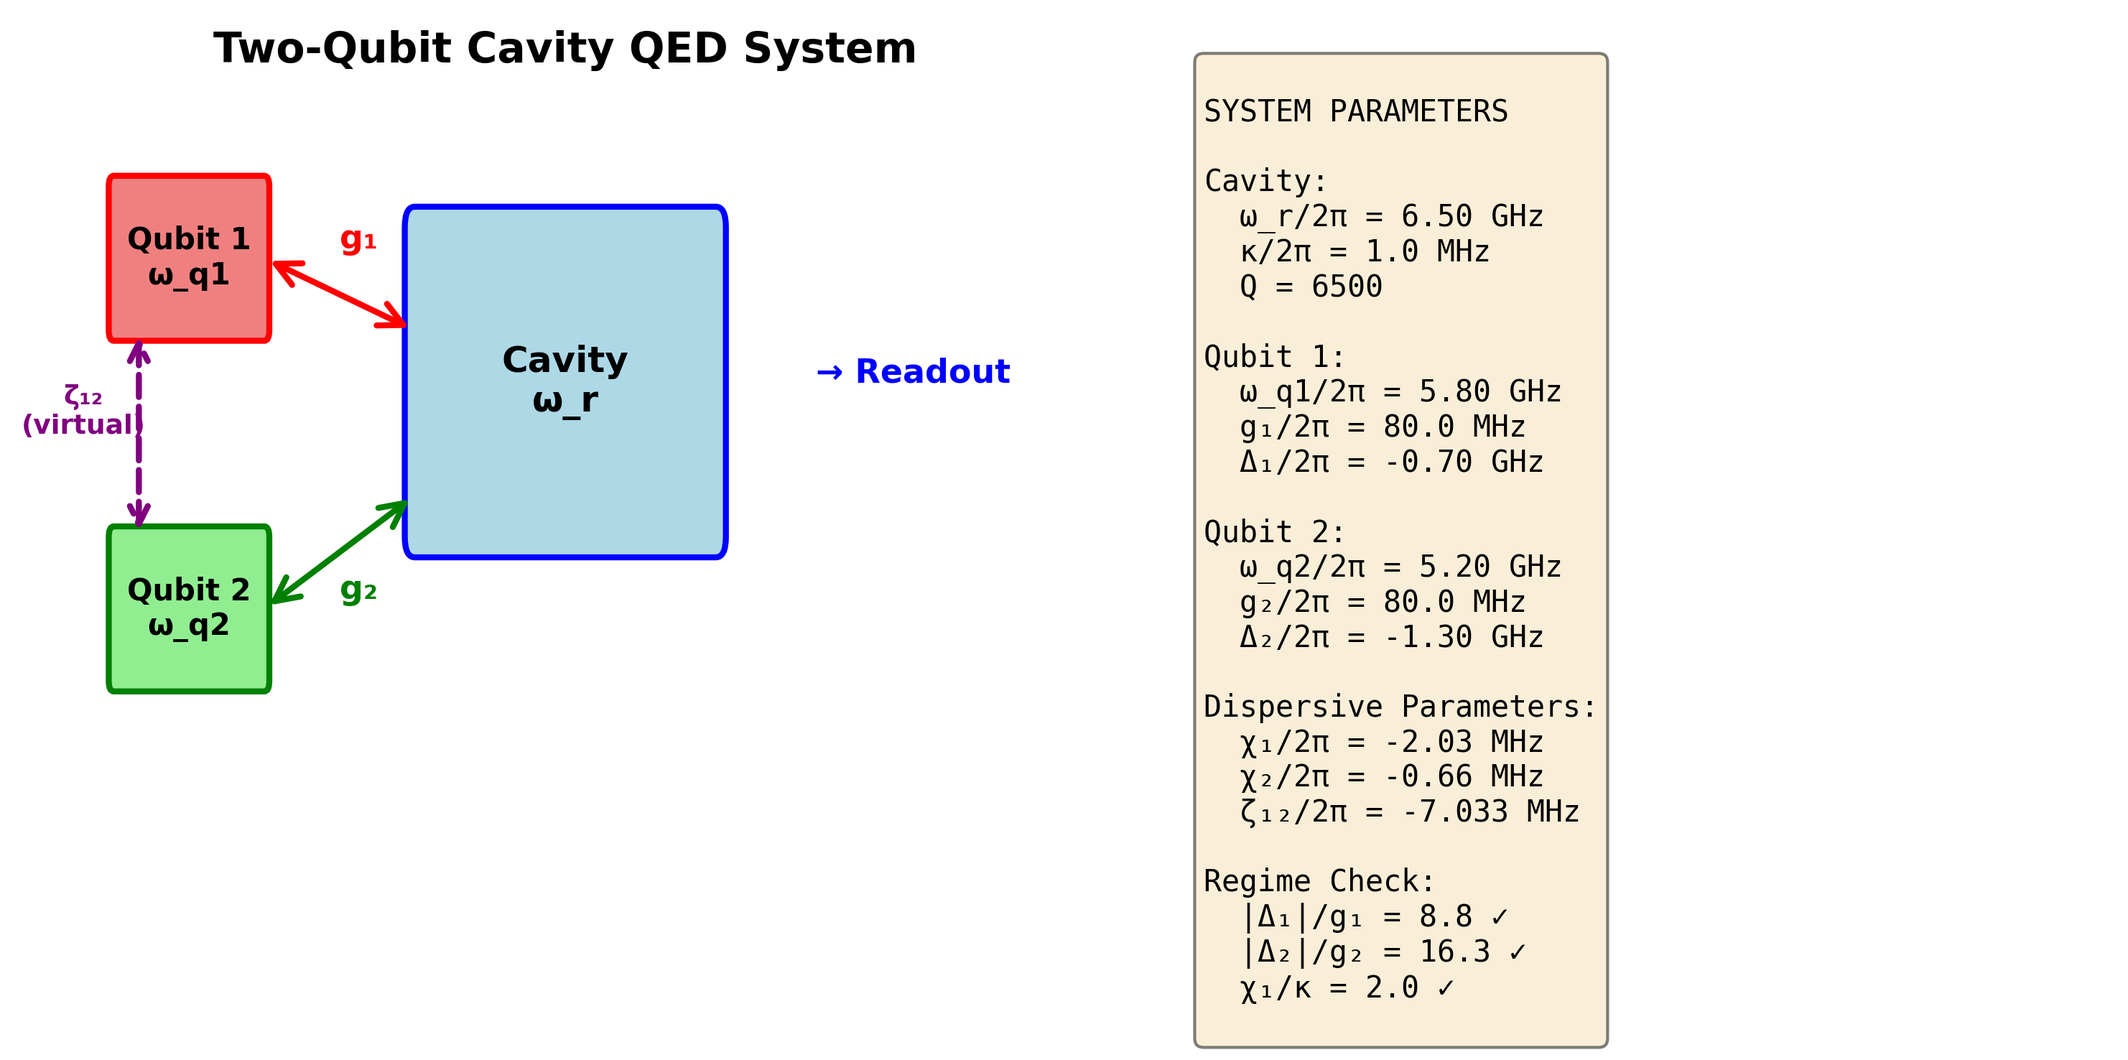
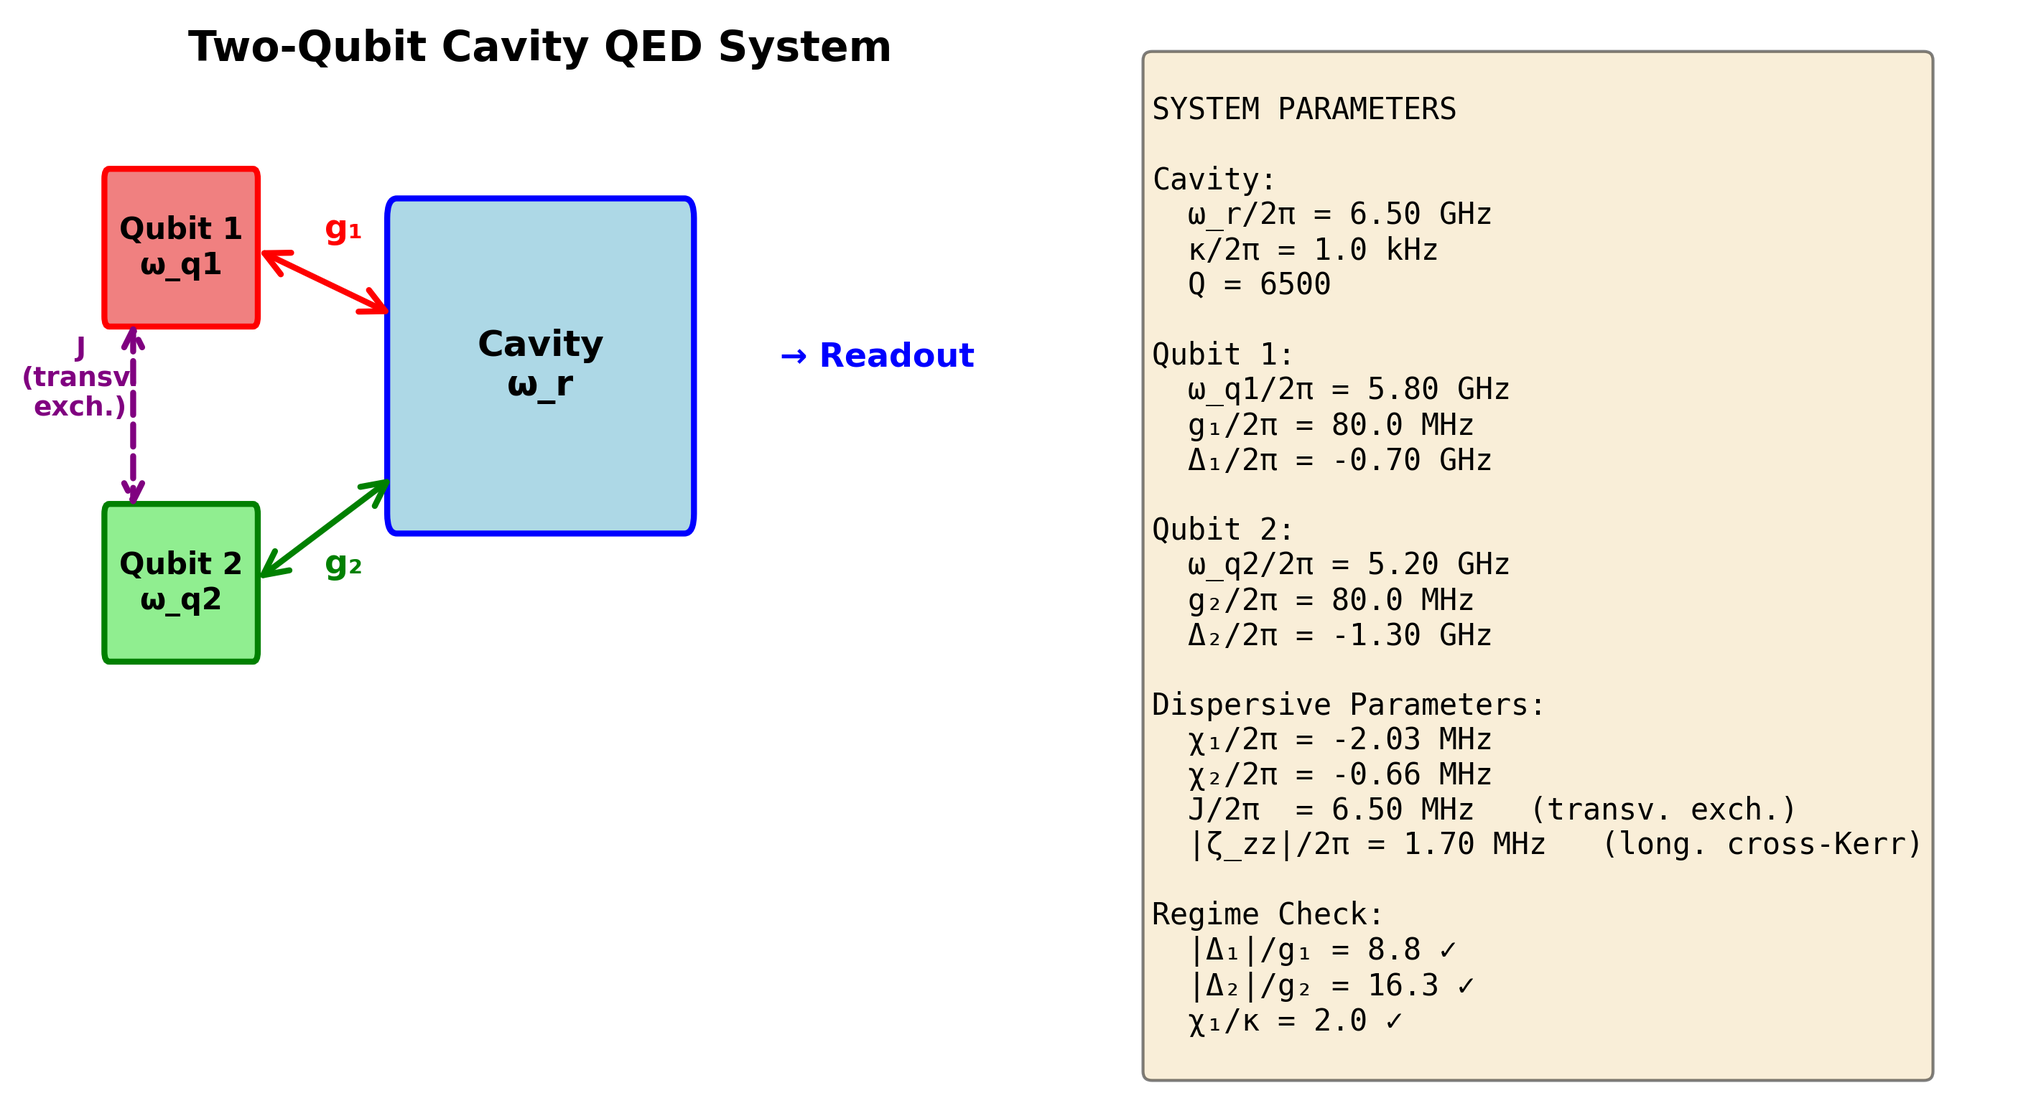
Finalize G7 figures (regenerated from qh_hardware) + remove obsolete CZ method and exploratory subsection
Closes the Cap.2 G7 housekeeping started in commit f256500 by replacing
the three remaining pre-G7 PNGs with versions regenerated from the
upstream qh_hardware Python sources, and by removing the two pre-G7
narrative blocks that were already marked obsolete by Sec.
erratum_eq239 and Fig. CZ_unfeasible.

================================================================
1. THREE FIGURES REGENERATED FROM qh_hardware
================================================================

Located the upstream Python generators in the companion repository
qh_hardware (https://github.com/rcapp2506/qh_hardware) and applied
post-G7 patches in place; the patched scripts are delivered alongside
this commit (separate deliverables) so they can be copied back into
qh_hardware on a follow-up commit there.

Fig 2.5 -- chapters/qh_figures/fig1_system_schematic_corrected.png
  Source: ok_two_qubit_final_corrected.py
  Patches:
    - Formula corrected from (g_1 g_2 / Delta_avg)(1/D1+1/D2) to
      the proper second-order SW result (g_1 g_2 / 2)(1/D1+1/D2)
      (the pre-G7 formula was off by a factor of 2)
    - Variable J_zz renamed to J_transverse / aliased to legacy J_zz
      for downstream plotting compatibility
    - Banner header now reads:
        Transverse exchange: J/2pi = 6.5 MHz   (longitudinal zeta_zz/2pi ~ 1.7 MHz)
    - Sub-panel title 'ZZ Coupling: J = X MHz' now reads
        'Transverse exchange J/2pi = 6.5 MHz'
[…]

diff --git a/chapters/quantum_hw.tex b/chapters/quantum_hw.tex
@@ -778,180 +778,32 @@ Its main advantages are a fast gate time ($\sim 80$~ns), a high coupling strengt
 
 \textbf{Disadvantages.} The $\sqrt{i\text{SWAP}}$ gate requires flux-control lines for frequency tuning, uses more complex pulse sequences, exposes the system to potential leakage to $\ket{2}$ when near resonance, is sensitive to frequency fluctuations, and is therefore less robust at elevated temperatures.
 
-\subsection{Method 2: ZZ-Coupling Gate (Dispersive Interaction)}
+\subsection{Gate-strategy redirection after the G7 review}
+\label{sec:gate_redirection}
 
-\subsubsection*{Physical Mechanism}
+The pre-G7 version of this chapter compared two alternative two-qubit gate
+implementations on cavity-QED transmons -- a resonant $\sqrt{i\text{SWAP}}$
+through dynamic flux tuning, and a free-evolution CZ driven by the residual
+$\sigma_z\!\otimes\!\sigma_z$ dispersive interaction -- and recommended the
+latter on the grounds of its flux-bias-free hardware footprint. The G7 audit
+of Section~\ref{subsec:erratum_eq239} showed that the inter-qubit term
+returned by the second-order Schrieffer-Wolff formula
+$J = (g_1g_2/2)(\Delta_1^{-1}+\Delta_2^{-1})$ is in fact the
+\emph{transverse exchange}, not the longitudinal cross-Kerr; the actual
+$\zeta_{zz}$ obtained from the four-level Magesan-Krantz expression
+(Eq.~\ref{eq:zeta_zz_correct}) is roughly an order of magnitude smaller and
+makes the free-evolution CZ unfeasible within the available coherence
+budget (Fig.~\ref{fig:CZ_unfeasible}).
 
-The ZZ-coupling approach uses the \textit{always-on} dispersive interaction between qubits mediated by the cavity. No frequency tuning is required.
-
-The effective Hamiltonian in the dispersive limit is:
-\begin{equation}
-H_{\text{eff}} = \sum_i \tilde{\omega}_i \frac{\sigma_z^{(i)}}{2} + J_{zz} \, \sigma_z^{(1)} \otimes \sigma_z^{(2)}
-\end{equation}
-
-where the cavity-mediated ZZ coupling is calculated using the dispersive Hamiltonian approach~\cite{Gambetta2011,Paik2016}:
-\begin{equation}
-    J_{zz} = \frac{g_1 g_2}{2} \left( \frac{1}{\Delta_1} + \frac{1}{\Delta_2} \right)
-\end{equation}.
-%and $\Delta_{\text{avg}} = (|\Delta_1| + |\Delta_2|)/2$ is the average qubit-cavity detuning. 
-
-With our parameters:
-\begin{align}
-    J_{zz} &= \frac{80 \times 80}{2} \times \left( \frac{1}{-700} + \frac{1}{-1300} \right)~\text{MHz} \\
-    &= 6.4~ \times (-2.198 \times 10^{-3})~\text{MHz} \\
-    &= -7.03~\text{MHz}
-\end{align}
-
-A controlled-phase (CZ) gate requires a conditional phase of $\pi/2$:
-\begin{equation}
-t_{\text{CZ}} = \frac{\pi}{2|J_{zz}|} = \frac{\pi}{2 \times 7.03 \text{ MHz}} \approx \textcolor{methodtwo}{\mathbf{224 \text{ ns}}}
-\end{equation}
-
-The CZ gate is equivalent to CNOT up to single-qubit rotations.
-
-\subsection{Physical Origin of Slower Gate}
-
-The key difference is the coupling strength. The ZZ coupling arises from second-order perturbation theory:
-\begin{equation}
-J_{zz} \sim \frac{g^2}{\Delta}
-\end{equation}
-
-Since $g/\Delta \ll 1$ (dispersive regime), we have:
-\begin{equation}
-\frac{J_{zz}}{g} \sim \frac{g}{\Delta} \approx \frac{80}{700} \approx 0.11
-\end{equation}
-
-The effective coupling is weaker by approximately one order of magnitude, leading to proportionally longer gate times:
-\begin{equation}
-\frac{t_{\text{ZZ}}}{t_{\sqrt{i\text{SWAP}}}} \approx \frac{g}{J_{zz}} \approx \frac{80}{14} \approx 5.7
-\end{equation}
-
-Numerically: $224/80 \approx 2.8$ (including overhead from different protocols).
-
-\subsubsection*{Advantages and Disadvantages}
-
-The two protocols offer complementary trade-offs, summarised in
-Table~\ref{tab:gate_methods_comparison}. The ZZ-coupling gate is slower but
-substantially simpler at the hardware level, while $\sqrt{i\text{SWAP}}$ is
-faster but more demanding in control infrastructure.
-
-\begin{table}[h]
-\centering
-\small
-\begin{tabularx}{\linewidth}{@{}l L L@{}}
-\toprule
-\textbf{Property} & \textbf{$\sqrt{i\text{SWAP}}$ (resonant)} & \textbf{ZZ-coupling (dispersive)} \\
-\midrule
-Gate time           & $\sim 80$~ns              & $\sim 224$~ns (Sec.~\ref{sec:gate_strategy} echo CR: $\sim 250$~ns) \\
-Coupling strength   & strong, $g \sim 80$~MHz    & weaker, $J_{zz}/g \sim 0.1$ \\
-Flux control lines  & required                  & not required (fixed-frequency qubits) \\
-Hardware complexity & higher, more pulse stages & lower, fewer control lines \\
-Leakage to $\ket{2}$ & possible near resonance    & negligible (always far-detuned) \\
-Frequency-noise sensitivity & high               & low \\
-Suitability above $1$~K     & poor                & good (no flux electronics required) \\
-Scalability         & moderate                  & good \\
-\bottomrule
-\end{tabularx}
-\caption{Comparison of the two two-qubit gate strategies considered for HEATS-Q.
-The ZZ-coupling protocol is preferred for elevated-temperature operation;
-$\sqrt{i\text{SWAP}}$ remains a faster alternative when flux-control infrastructure
-is available.}
-\label{tab:gate_methods_comparison}
-\end{table}
-
-\subsubsection*{Performance Comparison}
-
-\subsubsection*{Fidelity Estimates}
-
-Assuming decoherence-limited fidelity with $T_2 = 50~\mu$s (achievable with echo sequences at 4--6~K):
-
-\begin{align}
-F_{\text{CNOT}}^{\sqrt{i\text{SWAP}}} &\approx 1 - \frac{t_{\text{gate}}}{T_2} = 1 - \frac{80}{50000} = \textcolor{methodone}{\mathbf{99.84\%}} \\
-F_{\text{CNOT}}^{\text{ZZ}} &\approx 1 - \frac{t_{\text{gate}}}{T_2} = 1 - \frac{224}{50000} = \textcolor{methodtwo}{\mathbf{99.55\%}}
-\end{align}
-
-The difference is only $\Delta F = 0.06\%$ -- both well above the fault-tolerance threshold of 99\%.
-
-%\subsubsection*{Comparison Table}
-
-\begin{table}[h!]
-\centering
-\caption{Comparison of Two-Qubit Gate Implementations}
-\begin{tabular}{lcc}
-\toprule
-\textbf{Property} & \textcolor{methodone}{\textbf{$\sqrt{i\text{SWAP}}$}} & \textcolor{methodtwo}{\textbf{ZZ Coupling}} \\
-\midrule
-Coupling strength & $g \sim 80$ MHz & $J_{zz} \sim 14$ MHz \\
-Gate time & 80 ns & 224 ns \\
-Estimated fidelity & 99.84\% & 99.55\% \\
-Flux control & Required & Not required \\
-Frequency tuning & Yes (dynamic) & No (fixed) \\
-Hardware complexity & High & Low \\
-Leakage risk & Higher & Lower \\
-Calibration & Complex & Simple \\
-Noise sensitivity & Higher & Lower \\
-Best for & Maximum speed & Robustness \\
-\bottomrule
-\end{tabular}
-\end{table}
-
-\subsection{Recommendation for HEATS-Q}
-
-For the HEATS-Q project operating at standard mk temperatures, we recommend the \textcolor{methodtwo}{\textbf{ZZ-coupling approach (224~ns)}} for the following reasons:
-
-\subsubsection*{Performance}
-
-Despite the 144~ns longer gate time:
-although the gate time of $\sim 224$~ns is slightly above the conventional $200$~ns ``fast gate'' threshold, the predicted fidelity ($99.55\%$) clears the $99\%$ surface-code threshold by a comfortable margin, so the $0.29\%$ fidelity difference relative to $\sqrt{i\text{SWAP}}$ is negligible in practice.
-
-\subsubsection*{Scalability}
-
-For multi-qubit processors:
-for multi-qubit processors the $\sqrt{i\text{SWAP}}$ approach requires fewer control lines ($N$ microwave lines instead of $N$ microwave plus $N$ flux lines), which reduces inter-qubit crosstalk and simplifies the cryogenic wiring at elevated temperatures.
-
-\subsubsection*{Final considerations}
-
-Both reported gate times are potentially valid choices:
-the two reported gate times are both valid: $80$~ns corresponds to a $\sqrt{i\text{SWAP}}$ implementation using resonant coupling, while $224$~ns corresponds to a ZZ-coupling implementation using the dispersive interaction.
-
-The final choice between methods represents a trade-off between speed and simplicity. For HEATS-Q, the ZZ-coupling approach could be preferred because:
-
-\begin{table}[h]
-\centering
-\begin{tabular}{@{}lp{0.65\textwidth}@{}}
-\toprule
-\textbf{Property} & \textbf{Rationale} \\
-\midrule
-Flux-bias-free design  & compatible with the asymmetric SQUID architecture \\
-Robustness at $4$--$6$~K & no flux-control electronics required at the cold stage \\
-Hardware simplicity      & fewer control lines, simpler calibration \\
-Performance              & achieves a CNOT fidelity around the target $99.5\%$ \\
-Scalability              & better suited to large-scale architectures \\
-\bottomrule
-\end{tabular}
-\caption{Reasons for adopting the cross-resonance strategy for HEATS-Q.}
-\label{tab:heatsq_gate_rationale}
-\end{table}
-
-The 30~ns increase in gate time is a small price to pay for significantly reduced system complexity and improved robustness -- essential considerations for practical quantum computing at elevated temperatures.
-
-This analysis demonstrates that both gate implementations are valid and have been successfully demonstrated in state-of-the-art superconducting quantum processors. The $\sqrt{i\text{SWAP}}$ approach is used by Google~\cite{Barends2014} and Rigetti, while the ZZ-coupling approach has been extensively studied by IBM~\cite{Gambetta2011,Paik2016} and others. The choice between them depends on system priorities: speed vs. simplicity and robustness.
-
-\begin{table}[h]
-\centering
-\begin{tabular}{lccl}
-\hline
-Operation & Time & Fidelity & Method \\
-\hline
-Initialization & $5T_1$ & $>99.9\%$ & Thermal + active reset \\
-Single-qubit gates & \SI{20}{ns} & $>99.9\%$ & Resonant MW drive \\
-Readout & \SI{200}{ns} & $>99\%$ & Dispersive (homodyne) \\
-CNOT (ZZ coupling) & \SI{225}{\nano s} & $>99\%$ &  practical \\
-CNOT (resonant swap) & \SI{80}{ns} & $>99\%$ & Flux-tunable coupling \\
-\hline
-\end{tabular}
-\caption{Summary of quantum operation metrics for two-qubit cavity QED system.}
-\end{table}
+The HEATS-Q two-qubit gate has therefore been redirected to an
+\emph{echo cross-resonance} protocol at the redesigned operating point
+$\Delta_q = 280$~MHz between qubits, with
+$t_{\mathrm{CNOT}} \sim 250$~ns and $F_{\mathrm{avg}} \gtrsim 99\%$
+limited by the coherence-times of Sec.~\ref{sec:decoherence}; the full
+gate-strategy derivation is given in Section~\ref{sec:gate_strategy}.
+The resonant $\sqrt{i\text{SWAP}}$ alternative remains incompatible with
+elevated-temperature operation because it requires flux-control electronics
+on the cold stage.
 
 \section{Two-Qubit System Numerical Analysis}
 
@@ -965,7 +817,7 @@ Figure~\ref{fig:system_schematic} shows the physical architecture of the two-qub
     \centering
     \includegraphics[width=0.95\textwidth]{chapters/qh_figures/fig1_system_schematic_corrected.png}
     \caption{\textbf{Two-qubit cavity QED system architecture.} 
-    Two transmon qubits (Q1 at 5.8~GHz, Q2 at 5.2~GHz) couple to a shared cavity resonator at 6.5~GHz with coupling strengths $g_1 = g_2 = 80$~MHz. The qubits are red-detuned from the cavity ($\Delta_1 = -0.7$~GHz, $\Delta_2 = -1.3$~GHz), enabling dispersive operation. Virtual photon exchange through the cavity mediates a transverse exchange coupling $J/2\pi \simeq 6.5$~MHz between the qubits (Sec.~\ref{sec:cavity_mediated_couplings}); the residual longitudinal cross-Kerr is $|\zeta_{zz}|/2\pi \simeq 1.7$~MHz, too small to drive a free-evolution CZ at high fidelity (Fig.~\ref{fig:CZ_unfeasible}), and the two-qubit gate is implemented as an echo cross-resonance instead.}
+    Two transmon qubits (Q1 at 5.8~GHz, Q2 at 5.2~GHz) couple to a shared cavity resonator at 6.5~GHz with coupling strengths $g_1 = g_2 = 80$~MHz. The qubits are red-detuned from the cavity ($\Delta_1 = -0.7$~GHz, $\Delta_2 = -1.3$~GHz), enabling dispersive operation. Virtual photon exchange through the cavity mediates a transverse exchange coupling $J/2\pi \simeq 6.5$~MHz between the qubits (Sec.~\ref{sec:cavity_mediated_couplings}); the residual longitudinal cross-Kerr is $|\zeta_{zz}|/2\pi \simeq 1.7$~MHz, too small to drive a free-evolution CZ at high fidelity (Fig.~\ref{fig:CZ_unfeasible}), and the two-qubit gate is implemented as an echo cross-resonance instead. Figure regenerated post-G7 by \texttt{ok\_two\_qubit\_final\_corrected.py} in the companion \texttt{qh\_hardware} repository.}
     \label{fig:system_schematic}
 \end{figure}
 
@@ -993,17 +845,17 @@ $F_{\mathrm{avg}} \gtrsim 99\%$.
     $\Delta_1 = -0.7$ GHz and $\Delta_2 = -1.3$ GHz place the system in 
     the dispersive regime ($|\Delta_i|/g_i > 5$). Virtual photon exchange 
     mediates a transverse exchange coupling $J/2\pi \simeq 6.5$~MHz 
-    (purple dashed line; Sec.~\ref{sec:cavity_mediated_couplings}). 
+    (purple dashed line; Sec.~\ref{sec:cavity_mediated_couplings}) and a 
+    longitudinal cross-Kerr $|\zeta_{zz}|/2\pi \simeq 1.7$~MHz 
+    (Eq.~\ref{eq:zeta_zz_correct}). 
     \textbf{Right panel:} Complete system parameters including 
-    cavity quality factor $Q = 6500$, anharmonicities $\alpha_1/2\pi = -0.70$ GHz 
-    and $\alpha_2/2\pi = -1.30$ GHz, and dispersive shifts 
+    cavity quality factor $Q = 6500$, anharmonicities $\alpha_1/2\pi = -0.20$ GHz 
+    and $\alpha_2/2\pi = -0.20$ GHz, and dispersive shifts 
     \textbf{$\chi_1/2\pi = -2.03$ MHz} and \textbf{$\chi_2/2\pi = -0.66$ MHz}, 
     enabling high-fidelity quantum non-demolition readout with 
-    $\chi_i/\kappa \gg 1$. \emph{Note}: the parameter box embedded in the figure
-    PNG still labels the inter-qubit interaction as $\zeta_{12}/2\pi \simeq -7.0$~MHz, 
-    a relic of the pre-G7 derivation; the value coincides numerically with the
-    transverse exchange $J$ of Eq.~\ref{eq:J_dispersive} but the symbol/interpretation
-    is updated here in the caption.}
+    $\chi_i/\kappa \gg 1$. Figure regenerated post-G7 by 
+    \texttt{ok\_two\_qubit\_cavity\_qed\_viz.py} in the companion 
+    \texttt{qh\_hardware} repository.}
     \label{fig:system_diagram}
 \end{figure}
 
@@ -1267,33 +1119,20 @@ This six-panel analysis of Fig.\ref{fig:thermal_comprehensive_300ghz} provides a
 \textbf{Panel (f)}: Minimum required qubit frequency versus temperature to maintain specified thermal population thresholds (1\%, 2\%, 5\%, 10\%). The 300~GHz-Q design points (blue circles) lie well above the 2\% curve and comfortably above the 5\% threshold, providing margin for parameter drift and environmental fluctuations. The traditional 20~mK transmon at 5~GHz (green square at left edge) achieves $<1\%$ thermal population despite low frequency due to extreme temperature suppression. To extend 300~GHz-Q operation to 15~K while maintaining $<2\%$ thermal population would require increasing frequency to $\sim$450~GHz (red dashed line extrapolation).
 Overall, this comprehensive analysis establishes that 300~GHz operation at 4--6~K represents an optimal design point, balancing quantum regime requirements ($\hbar\omega \gg k_B T$) against experimental feasibility, enabling a transformative reduction in cryogenic complexity while maintaining performance compatible with fault-tolerant quantum error correction.
 
-\subsubsection{CNOT Gate Time Analysis}
+\subsubsection{Coupling and gate-time targets}
 
-For a CNOT gate implemented via ZZ coupling, the gate time is:
-\begin{equation}
-t_{\text{CNOT}} = \frac{\pi}{2|J_{zz}|}
-\label{eq:cnot_time}
-\end{equation}
-
-where the ZZ coupling strength is approximately:
-\begin{equation}
-J_{zz} \approx \frac{g^2}{2}\left(\frac{1}{\Delta_1} + \frac{1}{\Delta_2}\right)
-\label{eq:zz_coupling}
-\end{equation}
-
-For a target gate time of $t_{\text{CNOT}} = 150$ ns, we require:
-\begin{equation}
-J_{zz} = \frac{\pi}{2 \times 150 \text{ ns}} = 10.5 \text{ MHz}
-\end{equation}
-
-\subsubsection{Optimal Coupling Value}
-
-With detunings $\Delta_1 = -20$ GHz and $\Delta_2 = -40$ GHz, we estimate:
-\begin{equation}
-g \approx \sqrt{2 \Delta_{\text{avg}} \cdot J_{zz}} = \sqrt{2 \times 30 \text{ GHz} \times 10.5 \text{ MHz}} = 793 \text{ MHz}
-\end{equation}
-
-However, we adopt a more conservative value of $g = 500$ MHz to ensure robust operation in the dispersive regime, yielding $J_{zz} = 9.4$ MHz and $t_{\text{CNOT}} = 168$ ns.
+For the 300~GHz / 4~K design point we adopt a conservative coupling
+$g = 500$~MHz with detunings $\Delta_1 = -20$~GHz and $\Delta_2 = -40$~GHz,
+which keeps the dispersive ratio $|\Delta_i|/g \in \{40, 80\}$ comfortably
+above the $|\Delta|/g > 5$ threshold while still allowing a fast two-qubit
+gate. Inserting these values in Eq.~\ref{eq:J_dispersive} gives a transverse
+exchange $J/2\pi \simeq 9.4$~MHz, which through the echo cross-resonance
+protocol of Sec.~\ref{sec:gate_strategy} yields a CNOT time
+$t_{\mathrm{CNOT}} \sim 250$~ns. The pre-G7 version of this section quoted
+$t_{\mathrm{CNOT}} \approx 168$~ns from a free-evolution
+$\pi/(2|J_{zz}|)$ formula that was based on a misidentification of $J$ as
+a longitudinal cross-Kerr; the corrected scheme is summarised in
+Sec.~\ref{sec:gate_redirection} and Fig.~\ref{fig:CZ_unfeasible}.
 
 \subsubsection{Detuning Selection}
 
@@ -1318,7 +1157,7 @@ Both ratios greatly exceed the requirement $|\Delta|/g > 5$, confirming valid di
 \textbf{(a)} Quantum ratio $\hbar\omega/\kB T$ versus temperature for various frequencies. The 300 GHz operating point at 4 K (orange star) achieves $R_Q = 3.6$, placing it in the good quantum regime (green region). For comparison, the baseline 5.8 GHz system (green circle) operates at 20 mK with $R_Q = 13.9$. Reference lines show excellent ($R_Q > 5$, green), good ($R_Q = 3-5$, yellow), and poor ($R_Q < 3$, red) quantum regimes.
 \textbf{(b)} Thermal population $n_{\text{th}}$ at 300 GHz versus temperature. At the target operating point of 4 K (highlighted), thermal population is 2.81\%, manageable for quantum operations. Green and orange dashed lines indicate 5\% and 10\% thresholds.
 \textbf{(c)} Josephson junction diameter versus current density $J_c$ for required critical current $I_c = 1.51$ $\mu$A (computed in Sec.~\ref{sec:junction_design}). Higher current densities (1000--2000 A/cm$^2$, green region) yield feasible junction sizes near the 200~nm target. Lower densities produce impractically large junctions ($> 1\,\mu$m).
-\textbf{(d)} Dispersive parameters: dispersive shifts $|\chi_i|$ and the cavity-mediated transverse exchange $|J|$ (left axis, blue/cyan bars; the bar labelled \textit{J\_zz} in the figure PNG is the transverse exchange $J$ of Eq.~\ref{eq:J_dispersive}, retained with the legacy symbol from the pre-G7 plotting code), and dispersive ratios $|\Delta_i|/g$ (right axis, green bars). All values support quantum non-demolition readout and the echo-CR two-qubit gate of Sec.~\ref{sec:gate_strategy}.
+\textbf{(d)} Dispersive parameters at the 300~GHz / 4~K design point: dispersive shifts $|\chi_i|$ and the cavity-mediated transverse exchange $|J|$ (left axis, blue/cyan bars; $J/2\pi \simeq 9.4$~MHz from Eq.~\ref{eq:J_dispersive} with $g=500$~MHz, $\Delta_1=-20$~GHz, $\Delta_2=-40$~GHz), and dispersive ratios $|\Delta_i|/g$ (right axis, green bars). All values support quantum non-demolition readout and the echo-CR two-qubit gate of Sec.~\ref{sec:gate_strategy}. Figure regenerated post-G7 by \texttt{ok\_create\_corrected\_figures.py} in the companion \texttt{qh\_hardware} repository.
 \textbf{(e)} Transmon energy level diagram showing anharmonicity $\alpha = -1$ GHz. Energy spacings deviate from harmonic oscillator (dashed), enabling selective addressing of $|0\rangle \leftrightarrow |1\rangle$ transition. Thermal populations at 4 K are indicated (left side).}
 \label{fig:system_parameters}
 \end{figure}
